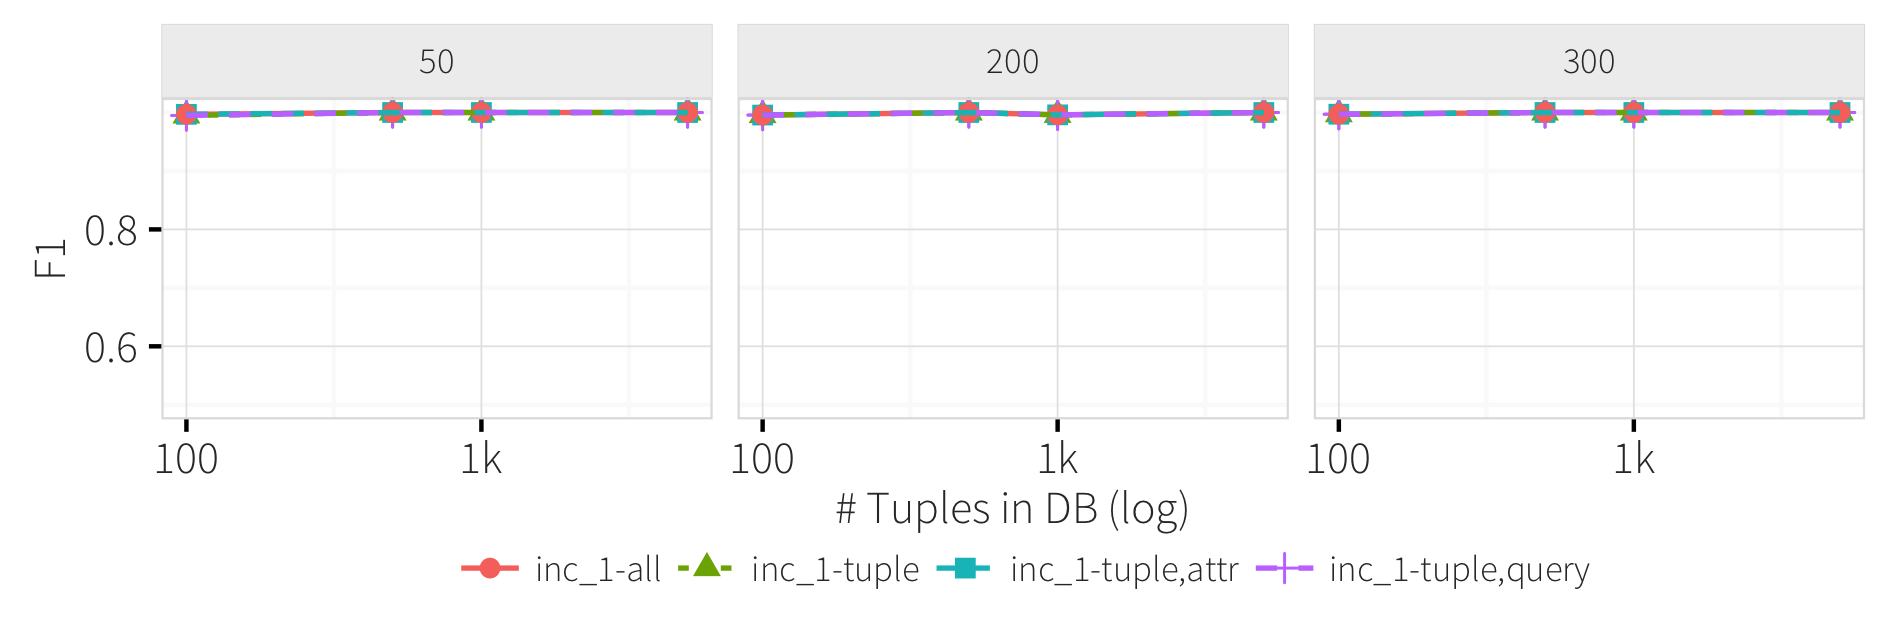
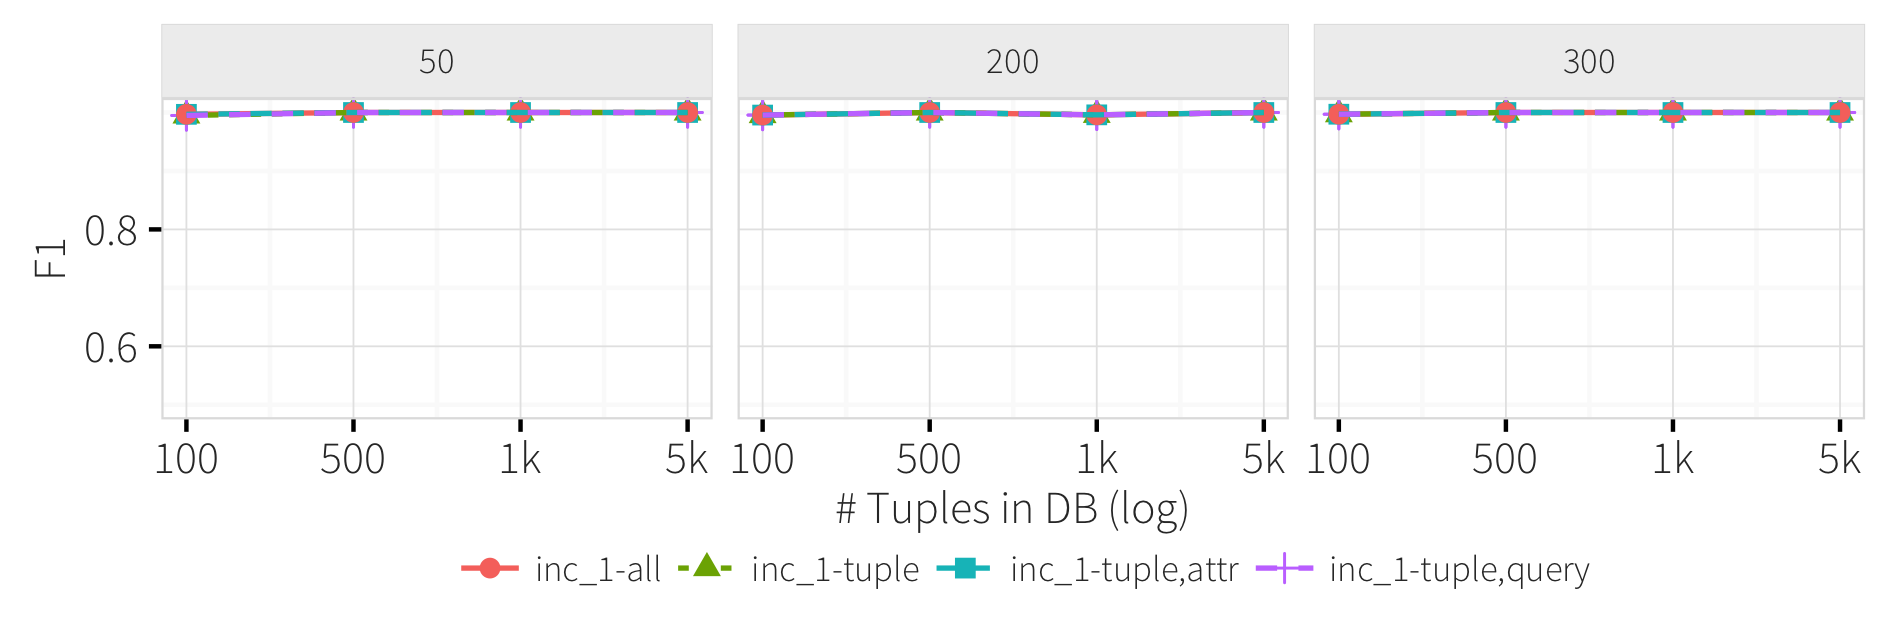
pass over sec. 7

diff --git a/docs/vldb16/content/xx-experiments.tex b/docs/vldb16/content/xx-experiments.tex
@@ -435,14 +435,16 @@ in Figure~\ref{f:attr}, when the number of attribute in a table is small, e.g., 
 performance of \sys with or without query slicing or attribute slicing optimizations 
 appears identical. However, as we gradually increase the number of attribute, the benefit
 of query slicing or attribute slicing become much more significant. 
-In particular, applying all slicing optimizations ($inc_1-all$) is $40\times$ faster than \sys with only tuple-slicing 
+In particular, applying all slicing optimizations ($inc_1-all$) is $40\times$ faster than \sys with only \emph{tuple-slicing} 
 optimization ($inc_1-tuple$) when there are 500 attribute in the table.  
 
 \stitle{Database Size:}
-We further increasing the database size $N_D \in \{100,500, 1k, 5k\}$ while keeping the number of attributes fixed at $N_a = 100$. 
+We further increasing the database size $N_D \in \{100,500, 1k, 5k\}$ while keeping the number of attributes fixed at $N_a = 100$ and roughly the same selectivity. 
 \xlw{
-As shown in Figure~\ref{f:attr100}, approach with all optimizations ($inc_1-all$)
-shows constant percentage of efficiency gain over with only tuple-slicing optimization as the database size increases.} \ewu{What does this sentence mean?  gain over what?}.
+In Figure~\ref{f:attr100}, we see that the time cost grows as database size increases for approach with only \emph{tuple-slicing} optimization. This is because we increase the range $[0, V_d]$ of each attribute in order to keep the same query selectivity as database size increases. Thus, the searching space of the problem also grows and so does the execution time. However, \emph{attribute-slicing} helps reducing the impact as it only encodes relevant attributes. As a result, we observe a much slower time cost growing rate for algorithm with \emph{attribute-slicing} optimization. Overall, we observe that approach with all optimizations ($inc_1-all$)
+shows more than $50\%$ efficiency gain over with only tuple-slicing optimization as the database size increases. Note that the impact of attribute ranges $[0, V_d]$ also relevant to number of attribute in the table, it would not increase the searching space (or time cost) as significant as for problems with fewer attributes (e.g., 10). 
+
+} \ewu{What does this sentence mean?  gain over what?}.
 
 \subsubsection{Sensitivity to Data and Workload Factors}
 
